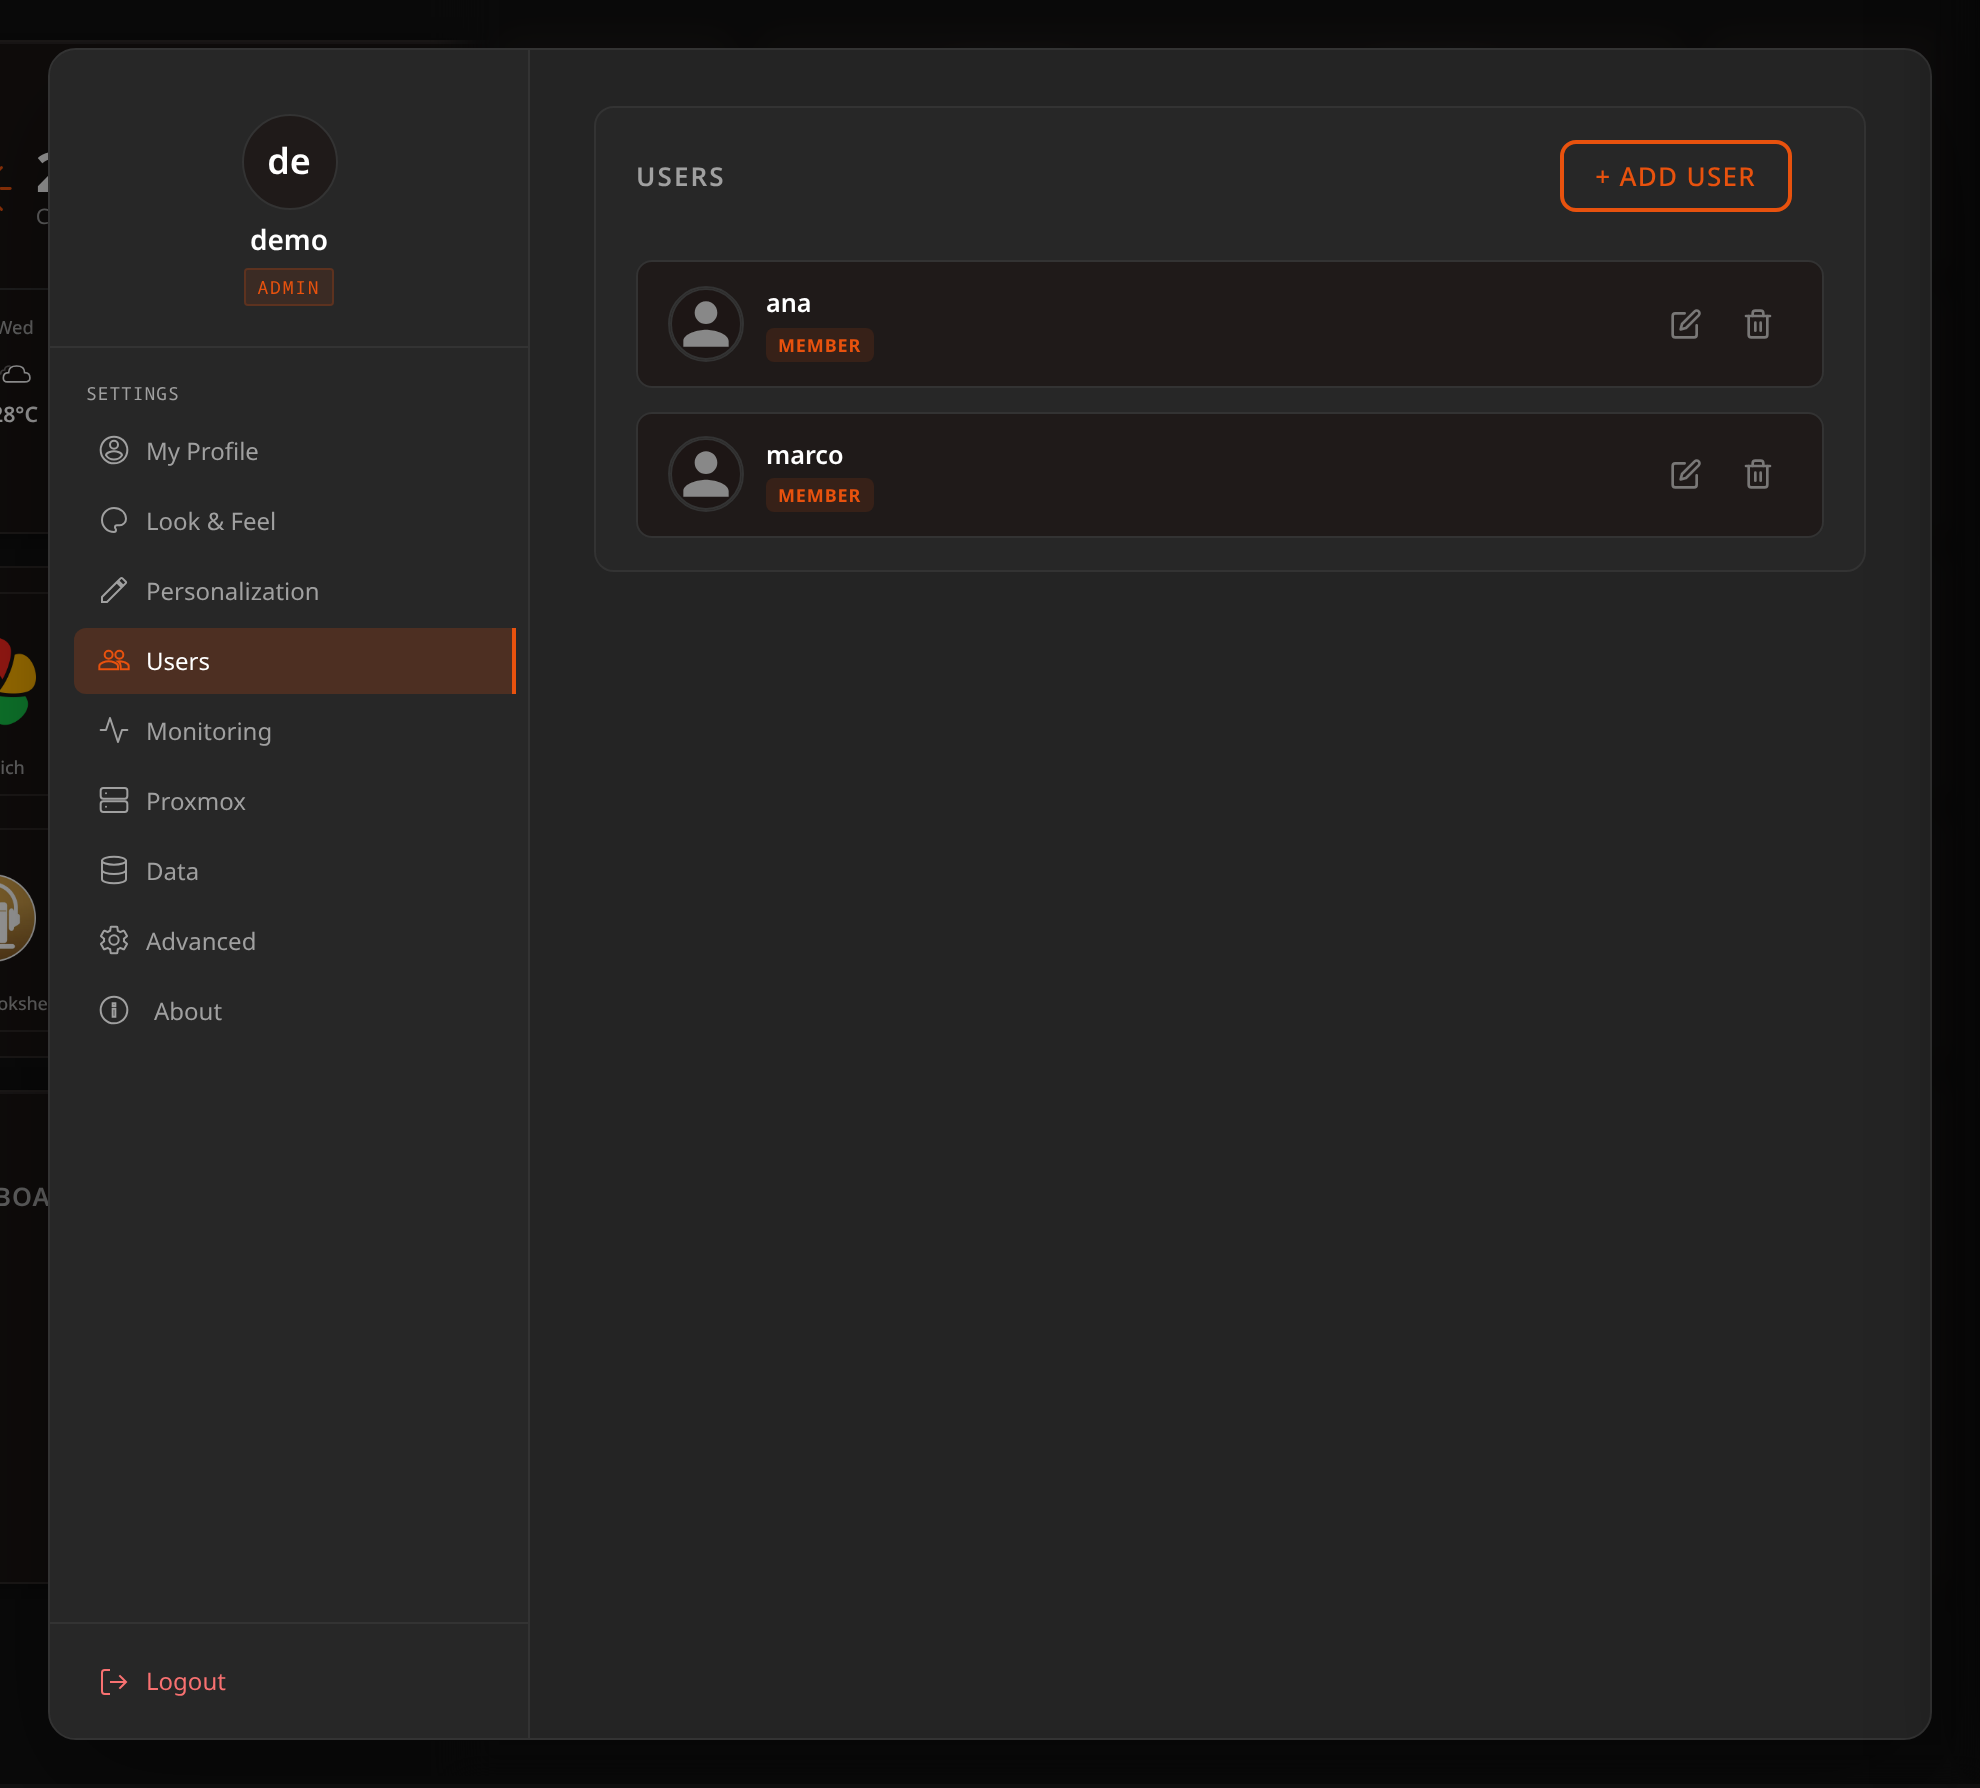
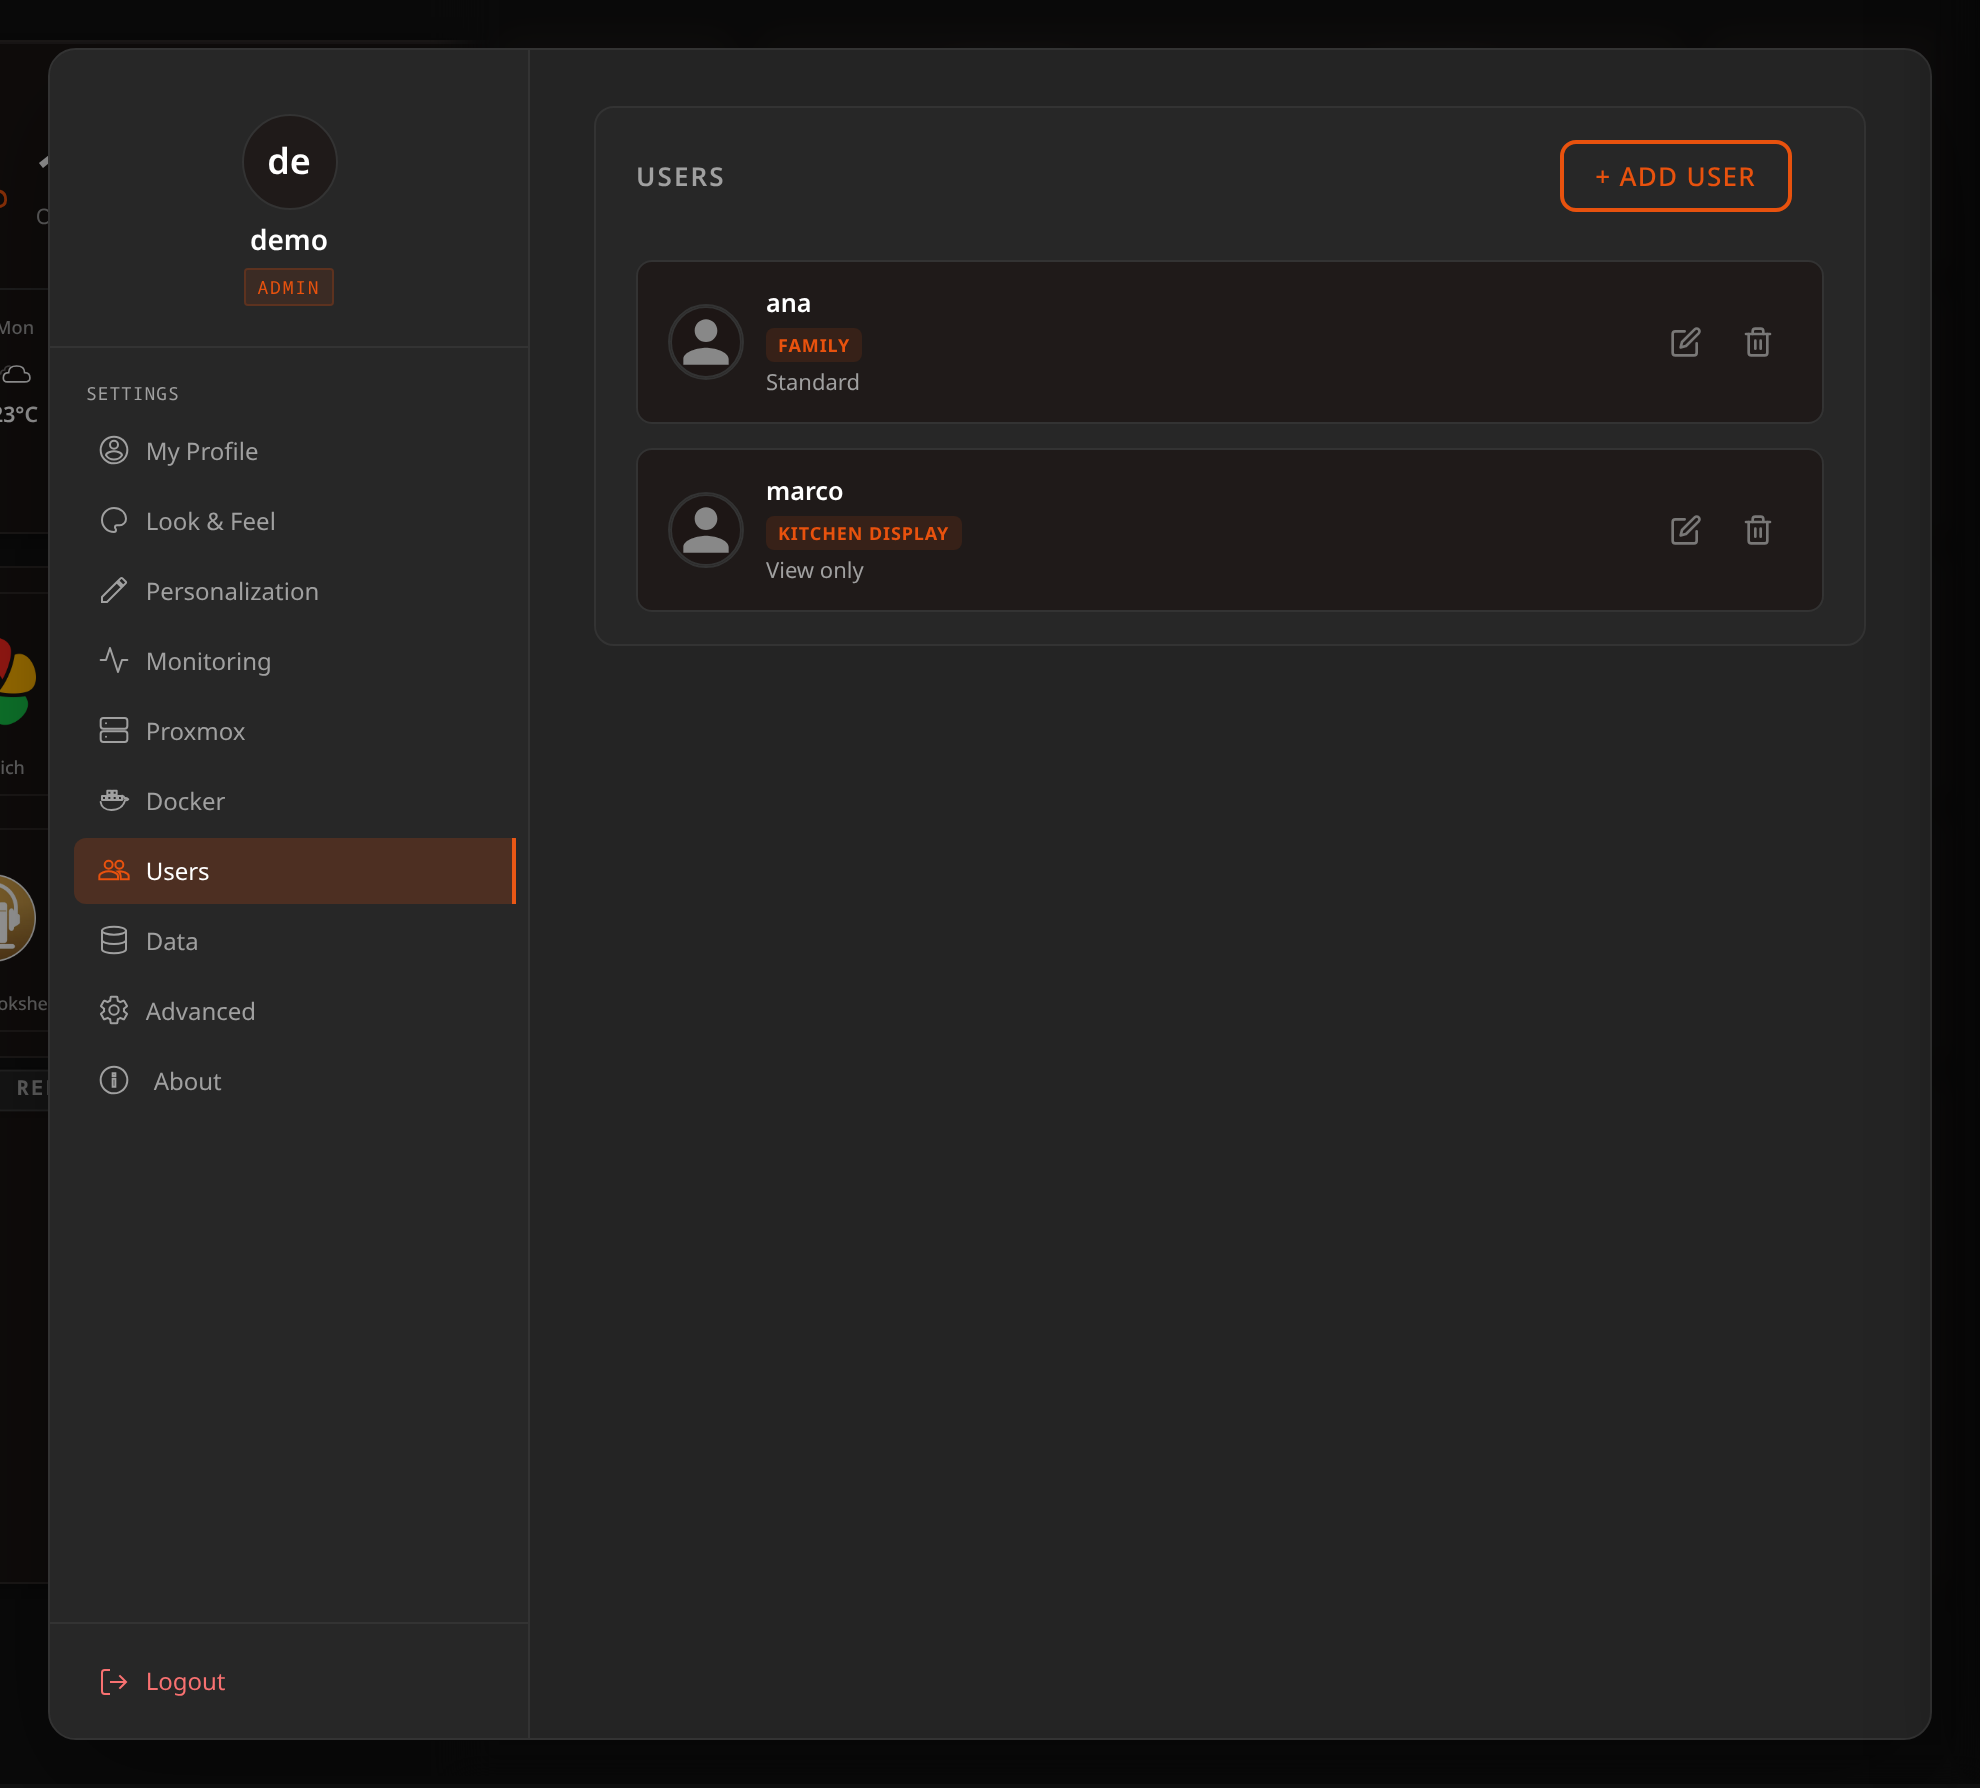
docs: per-account permissions, profiles and labels, with the account dialog screenshot

Changed region(s): [[0.0308, 0.3384, 0.2773, 0.5845], [0.3389, 0.1538, 0.8934, 0.3384], [0.0, 0.646, 0.0308, 0.6767]]

diff --git a/scripts/docs-shots.ts b/scripts/docs-shots.ts
@@ -412,6 +412,29 @@ const SHOTS: Shot[] = [
         clip: `${DRAWER}.querySelector('settings-content').shadowRoot.getElementById('docker-modal')`,
     },
     {
+        // The one dialog that creates and edits an account: its profile chosen, the
+        // permissions unfolded, and the summary that says what it all comes to.
+        name: 'p-user-permissions', w: 1500, h: 2300, pad: 0, wait: 900,
+        act: openSettings('users') + `
+              const sheet = ${DRAWER}.querySelector('settings-content').shadowRoot;
+              sheet.querySelector('[data-action="open-add-user"]').click();
+              await sleep(500);
+              const set = (id, v) => { const el = sheet.getElementById(id); if (!el) throw new Error('no #' + id); el.value = v; };
+              set('user-username', 'sam');
+              set('user-label', 'Lab');
+              const card = sheet.querySelector('[data-action="user-profile"][data-profile="homelab"]');
+              if (!card) throw new Error('no Homelab card in the account dialog');
+              card.click();
+              await sleep(300);
+              const details = sheet.getElementById('user-custom');
+              details.open = true;
+              // Docker down to "View", so the picture shows a profile that was touched.
+              sheet.querySelector('[data-action="user-level"][data-perm="docker"][data-level="1"]').click();
+              await sleep(500);
+              if (sheet.querySelector('.user-dialog__profile.is-selected')?.dataset.profile !== 'custom') throw new Error('touching a permission did not make the profile Custom');`,
+        clip: `${DRAWER}.querySelector('settings-content').shadowRoot.getElementById('user-modal')`,
+    },
+    {
         // Server Health pointed at another server: the source, its address and the test.
         name: 'w-telemetry-conf', w: 1500, h: 980, pad: 0, wait: 900,
         act: `${TOPBAR}.querySelector('#edit-toggle').click(); await sleep(900);
@@ -553,8 +576,11 @@ async function seedLiveData(dbPath: string, token: string, csrf: string) {
     // Two more accounts. The Users panel is where a household shares a board, and
     // photographed on a fresh install it says "No users here yet." — a picture of
     // an empty room, which explains nothing about what the panel is for.
-    for (const username of ['ana', 'marco']) {
-        await api('/users', { username, password: 'Lastboard123!' });
+    // They are given what an administrator would give them, so the list shows labels
+    // and profiles rather than two identical rows.
+    for (const [username, label, profile] of [['ana', 'Family', 'standard'], ['marco', 'Kitchen display', 'viewer']]) {
+        const res = await api('/users', { username, password: 'Lastboard123!', label, profile });
+        if (!res.ok) throw new Error(`could not seed ${username}: ${res.status}`);
     }
 
     // 24/7 monitoring on, so the status page and the widget have something to say.

diff --git a/docs/using/preferences.md b/docs/using/preferences.md
@@ -13,6 +13,7 @@ Manage your personal profile and security.
 ![My Profile](../assets/p-profile.png)
 
 - **Avatar** — upload a custom profile picture (use **Change Image**).
+- **Label** — shown under your name in place of **Admin** or **Member**. The administrator types its own here and saves it with **Save label**; a member sees the label the administrator gave it and has no field to change it. See [Labels](#labels).
 - **Username** — change your display name, then **Save Name**. This signs you out on this browser, and you sign in again with the new name.
 - **System Password** — update your login credentials. Enter your current password, then the new one twice (up to 256 characters), and **Change Password**. Every open session of the account ends, this one included, so you sign in again with the new password. A wrong current password counts toward a lockout: after 5 failures the account waits 5 minutes before it accepts another try.
 
@@ -37,13 +38,54 @@ Everything that changes how the dashboard looks.
 
 ## Users (Administrator Only)
 
-The administrator manages who can access the instance.
+The administrator manages who can access the instance, and what each account may do.
 
 ![Users](../assets/p-users.png)
 
-- **Add User** — create a new account.
-- **Edit / Delete** — modify or remove an existing account from its row. Editing changes a member's name and, if you type one, their password, which ends their open sessions. Your own account is changed from **My Profile**, never from here. Deleting asks for your password.
+Each row shows the account's name, its **label** (or its role, when it has none) and, in small type, the name of its permission profile.
+
+- **Add User** — opens one window to create an account. **Edit** on a row opens the same window filled with that account's current choices. Editing changes the name and, if you type one, the password, which ends the account's open sessions. Your own account is changed from **My Profile**, never from here. **Delete** asks for your password.
 - **Roles** — an instance has exactly one **Admin**: the account created by the Setup Wizard. Every account added afterwards is a **Member**, and there is no way to promote one. If you need to hand the instance over, change the admin account's own username and password rather than creating a second administrator.
+
+### The account window
+
+![Creating an account: profile, permissions and summary](../assets/p-user-permissions.png)
+
+The window has three steps, one under the other:
+
+1. **Account** — username, password and an optional **label**.
+2. **Profile** — four cards. **Standard** is selected when you create an account. Under them, **Customize permissions** unfolds the full list.
+3. **Summary** — what the account **will** and **won't** be able to do, as it stands now, so you read the consequence before you press **Add User**.
+
+A profile is a starting point, not a link: choosing one copies its values onto the account, and the account keeps them if a later version changes what the profile contains. Touching any permission switches the card to **Custom** (unless the result happens to match one of the three profiles exactly).
+
+| Profile | What it is for |
+|---|---|
+| **View only** | A wall screen or a guest: sees the board it is given, changes nothing, and makes the server reach nothing on its behalf. It can still see this server's load. |
+| **Standard** | A household member: boards of its own (several, importable and exportable), new icons from the internet, widgets that call web services, and the up/down dot on its bookmarks. Nothing on your local network and no infrastructure. |
+| **Homelab** | Somebody trusted with equipment of their own: every permission below, with Docker and Proxmox at **Control**. |
+| **Custom** | Whatever you pick. |
+
+The permissions, by area:
+
+- **Board** — edit the board; have several boards (needs *edit the board*); import and export boards; fetch new icons from the internet. Without *edit the board* the account sees the board prepared for it and changes nothing.
+- **Widgets** — use API widgets; read the health of other machines with Server Health. Clock, weather, notes and Markdown widgets are always available.
+- **Network reach** — **reach the local network**. What the account points the server at may be on your LAN only if this is on. Off, the server reaches only the internet on its behalf.
+- **Infrastructure** — **Docker** and **Proxmox**, each at **None**, **View** or **Control**. They are the account's *own* Docker agents and Proxmox servers (see [Docker](#docker) and [Proxmox](#proxmox)); Proxmox is further limited by what its API token allows.
+- **Monitoring** — see the up/down dots; monitor around the clock; send alerts (needs monitoring).
+- **Server** — see the load (CPU, memory, temperature) of the machine Lastboard runs on.
+
+A permission that depends on another is shown switched off and cannot be touched while the one it needs is off. Changes apply from the account's next request; nobody has to sign in again.
+
+Some things are never given to a member, whatever its profile: managing accounts, backups, restoring, resetting, updating, and the Docker of the server Lastboard itself runs on. A member can only use its own Docker agents.
+
+An account that existed before permissions were introduced was given the **Homelab** set when you updated, so nothing it could do stopped working; edit it to narrow it down.
+
+### Labels
+
+A **label** is a short text of your choosing (24 characters at most) shown where the role would be: in the user list, in **My Profile**, and under the name at the top of the Settings menu — for every account, not only the administrator. Empty, the role (**Admin** or **Member**) is shown, as before. It is only a name: it changes nothing about what the account can do.
+
+Only the administrator sets labels. A member sees its own label but cannot change it. The administrator names its own account from **My Profile**.
 
 ## Monitoring
 

diff --git a/docs/security/overview.md b/docs/security/overview.md
@@ -63,6 +63,8 @@ application shell — which would then be served with no session. Here a route i
 it is declared, the SPA shell falls through to a **protected** handler, and a static asset is
 only served when it really exists in the embedded filesystem.
 
+**Each member account has its own permissions**, chosen by the administrator (see [Preferences → Users](../using/preferences.md#users-administrator-only)). Every route checks the permission it needs on every request, reading it afresh, so a change applies from the account's next request. *Reaching the local network* is cut off on the server, in the dialer that makes the outbound connections, not in the browser: an account without it can only make the server reach the internet. There is one administrator, and what only the administrator may do — accounts, backups, restore, reset, updates and the server's own Docker — is not a permission a member can be given.
+
 ## CSRF and cross-site requests
 
 - Every state-changing method (`POST`, `PUT`, `PATCH`, `DELETE`) requires a matching
